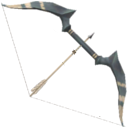
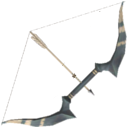
Drawing weapon on actor, drawing actor + weapon in inventory

diff --git a/tactics_project/src/com/marklynch/objects/Inventory.java b/tactics_project/src/com/marklynch/objects/Inventory.java
@@ -8,10 +8,12 @@ import com.marklynch.Game;
 import com.marklynch.editor.UserInputEditor;
 import com.marklynch.level.Square;
 import com.marklynch.objects.units.Actor;
+import com.marklynch.objects.weapons.Weapon;
 import com.marklynch.ui.button.Button;
 import com.marklynch.ui.button.ClickListener;
 import com.marklynch.ui.button.LevelButton;
 import com.marklynch.utils.QuadUtils;
+import com.marklynch.utils.TextureUtils;
 
 import mdesl.graphics.Color;
 
@@ -35,7 +37,7 @@ public class Inventory {
 	public static transient INVENTORY_SORT_BY inventorySortBy = INVENTORY_SORT_BY.SORT_BY_MAX_RANGE;
 
 	private transient boolean isOpen = false;
-	transient float x = 1000;
+	transient float x = 100;
 	transient float y = 100;
 	transient float width = widthInSquares * Game.SQUARE_WIDTH;
 	transient float height = heightInSquares * Game.SQUARE_HEIGHT;
@@ -59,7 +61,7 @@ public class Inventory {
 		}
 		buttons = new ArrayList<Button>();
 
-		buttonSortAlphabetically = new LevelButton(400f, 100f, 200f, 30f, "end_turn_button.png", "end_turn_button.png",
+		buttonSortAlphabetically = new LevelButton(0f, 100f, 100f, 30f, "end_turn_button.png", "end_turn_button.png",
 				"SORT A-Z", true, true, Color.BLACK, Color.WHITE);
 		buttonSortAlphabetically.setClickListener(new ClickListener() {
 			@Override
@@ -69,7 +71,7 @@ public class Inventory {
 		});
 		buttons.add(buttonSortAlphabetically);
 
-		buttonSortByNewest = new LevelButton(400f, 150f, 200f, 30f, "end_turn_button.png", "end_turn_button.png",
+		buttonSortByNewest = new LevelButton(0f, 150f, 100f, 30f, "end_turn_button.png", "end_turn_button.png",
 				"NEWEST", true, true, Color.BLACK, Color.WHITE);
 		buttonSortByNewest.setClickListener(new ClickListener() {
 			@Override
@@ -79,7 +81,7 @@ public class Inventory {
 		});
 		buttons.add(buttonSortByNewest);
 
-		buttonSortByFavourite = new LevelButton(400f, 200f, 200f, 30f, "end_turn_button.png", "end_turn_button.png",
+		buttonSortByFavourite = new LevelButton(0f, 200f, 100f, 30f, "end_turn_button.png", "end_turn_button.png",
 				"FAVOURITES", true, true, Color.BLACK, Color.WHITE);
 		buttonSortByFavourite.setClickListener(new ClickListener() {
 			@Override
@@ -89,8 +91,8 @@ public class Inventory {
 		});
 		buttons.add(buttonSortByFavourite);
 
-		buttonSortByValue = new LevelButton(400f, 250f, 200f, 30f, "end_turn_button.png", "end_turn_button.png",
-				"VALUE", true, true, Color.BLACK, Color.WHITE);
+		buttonSortByValue = new LevelButton(0f, 250f, 100f, 30f, "end_turn_button.png", "end_turn_button.png", "VALUE",
+				true, true, Color.BLACK, Color.WHITE);
 		buttonSortByValue.setClickListener(new ClickListener() {
 			@Override
 			public void click() {
@@ -99,7 +101,7 @@ public class Inventory {
 		});
 		buttons.add(buttonSortByValue);
 
-		buttonSortByTotalDamage = new LevelButton(400f, 300f, 200f, 30f, "end_turn_button.png", "end_turn_button.png",
+		buttonSortByTotalDamage = new LevelButton(0f, 300f, 100f, 30f, "end_turn_button.png", "end_turn_button.png",
 				"DAMAGE", true, true, Color.BLACK, Color.WHITE);
 		buttonSortByTotalDamage.setClickListener(new ClickListener() {
 			@Override
@@ -109,7 +111,7 @@ public class Inventory {
 		});
 		buttons.add(buttonSortByTotalDamage);
 
-		buttonSortBySlashDamage = new LevelButton(400f, 350f, 200f, 30f, "end_turn_button.png", "end_turn_button.png",
+		buttonSortBySlashDamage = new LevelButton(0f, 350f, 10f, 30f, "end_turn_button.png", "end_turn_button.png",
 				"SLASH", true, true, Color.BLACK, Color.WHITE);
 		buttonSortBySlashDamage.setClickListener(new ClickListener() {
 			@Override
@@ -351,9 +353,9 @@ public class Inventory {
 	@SuppressWarnings("unchecked")
 	public void drawStaticUI() {
 
-		QuadUtils.drawQuad(new Color(0f, 0f, 0f, 1f), 0, Game.windowWidth, 0, Game.windowHeight);
-		// if (isOpen) {
-		int gameObjectIndex = 0;
+		// Black cover
+		QuadUtils.drawQuad(Color.BLACK, 0, Game.windowWidth, 0, Game.windowHeight);
+
 		for (int i = 0; i < inventorySquares[0].length; i++) {
 			for (int j = 0; j < inventorySquares.length; j++) {
 
@@ -362,13 +364,36 @@ public class Inventory {
 			}
 		}
 
+		// cursor
 		if (this.inventorySquareMouseIsOver != null) {
 			this.inventorySquareMouseIsOver.drawCursor();
 		}
 
+		// buttons
 		for (Button button : buttons) {
 			button.draw();
 		}
+
+		// Actor
+		int actorPositionXInPixels = 600;
+		int actorPositionYInPixels = 100;
+		float alpha = 1.0f;
+		TextureUtils.drawTexture(Game.level.player.imageTexture, alpha, actorPositionXInPixels,
+				actorPositionXInPixels + Game.level.player.width * 5, actorPositionYInPixels,
+				actorPositionYInPixels + Game.level.player.height * 5);
+
+		Weapon equippedWeapon = Game.level.player.equippedWeapon;
+		// Equipped weapon on actor
+		if (equippedWeapon != null) {
+			int weaponPositionXInPixels = (int) (actorPositionXInPixels
+					+ ((int) Game.HALF_SQUARE_WIDTH - equippedWeapon.halfWidth) * 5);
+			int weaponPositionYInPixels = (int) (actorPositionYInPixels
+					+ ((int) Game.HALF_SQUARE_HEIGHT - equippedWeapon.halfHeight) * 5);
+			TextureUtils.drawTexture(equippedWeapon.imageTexture, alpha, weaponPositionXInPixels,
+					weaponPositionXInPixels + equippedWeapon.width * 5, weaponPositionYInPixels,
+					weaponPositionYInPixels + equippedWeapon.height * 5);
+		}
+
 	}
 
 	public boolean isOpen() {

diff --git a/tactics_project/src/com/marklynch/objects/units/Actor.java b/tactics_project/src/com/marklynch/objects/units/Actor.java
@@ -27,6 +27,7 @@ import com.marklynch.ui.ActivityLog;
 import com.marklynch.ui.button.Button;
 import com.marklynch.utils.QuadUtils;
 import com.marklynch.utils.TextUtils;
+import com.marklynch.utils.TextureUtils;
 
 import mdesl.graphics.Color;
 
@@ -324,6 +325,19 @@ public class Actor extends ActorTemplate implements Owner {
 		}
 
 		super.draw1();
+
+		if (equippedWeapon != null) {
+			int weaponPositionXInPixels = (int) (this.squareGameObjectIsOn.xInGrid * (int) Game.SQUARE_WIDTH
+					+ drawOffsetX + ((int) Game.HALF_SQUARE_WIDTH - equippedWeapon.halfWidth));
+			int weaponPositionYInPixels = (int) (this.squareGameObjectIsOn.yInGrid * (int) Game.SQUARE_HEIGHT
+					+ drawOffsetY + ((int) Game.HALF_SQUARE_HEIGHT - equippedWeapon.halfHeight));
+			float alpha = 1.0f;
+			TextureUtils.drawTexture(this.equippedWeapon.imageTexture, alpha, weaponPositionXInPixels,
+					weaponPositionXInPixels + equippedWeapon.width, weaponPositionYInPixels,
+					weaponPositionYInPixels + equippedWeapon.height);
+		}
+
+		// TextureUtils.skipNormals = false;
 
 		int actorPositionXInPixels = this.squareGameObjectIsOn.xInGrid * (int) Game.SQUARE_WIDTH;
 		int actorPositionYInPixels = this.squareGameObjectIsOn.yInGrid * (int) Game.SQUARE_HEIGHT;

diff --git a/tactics_project/src/com/marklynch/objects/GameObject.java b/tactics_project/src/com/marklynch/objects/GameObject.java
@@ -68,10 +68,12 @@ public class GameObject extends GameObjectTemplate implements ActionableInWorld,
 	// Quest
 	public transient Quest quest;
 
-	float height;
-	float width;
-	float drawOffsetX;
-	float drawOffsetY;
+	public float height;
+	public float width;
+	public float halfHeight;
+	public float halfWidth;
+	public float drawOffsetX;
+	public float drawOffsetY;
 
 	public GameObject(String name, int health, String imagePath, Square squareGameObjectIsOn, Inventory inventory,
 			boolean showInventory, boolean canShareSquare, boolean fitsInInventory, boolean canContainOtherObjects,
@@ -90,6 +92,8 @@ public class GameObject extends GameObjectTemplate implements ActionableInWorld,
 
 		width = Game.SQUARE_WIDTH * widthRatio;
 		height = Game.SQUARE_HEIGHT * heightRatio;
+		halfWidth = width / 2;
+		halfHeight = height / 2;
 
 		if (widthRatio < 1f && heightRatio < 1f) {
 			float drawOffsetXMax = Game.SQUARE_WIDTH - width;
